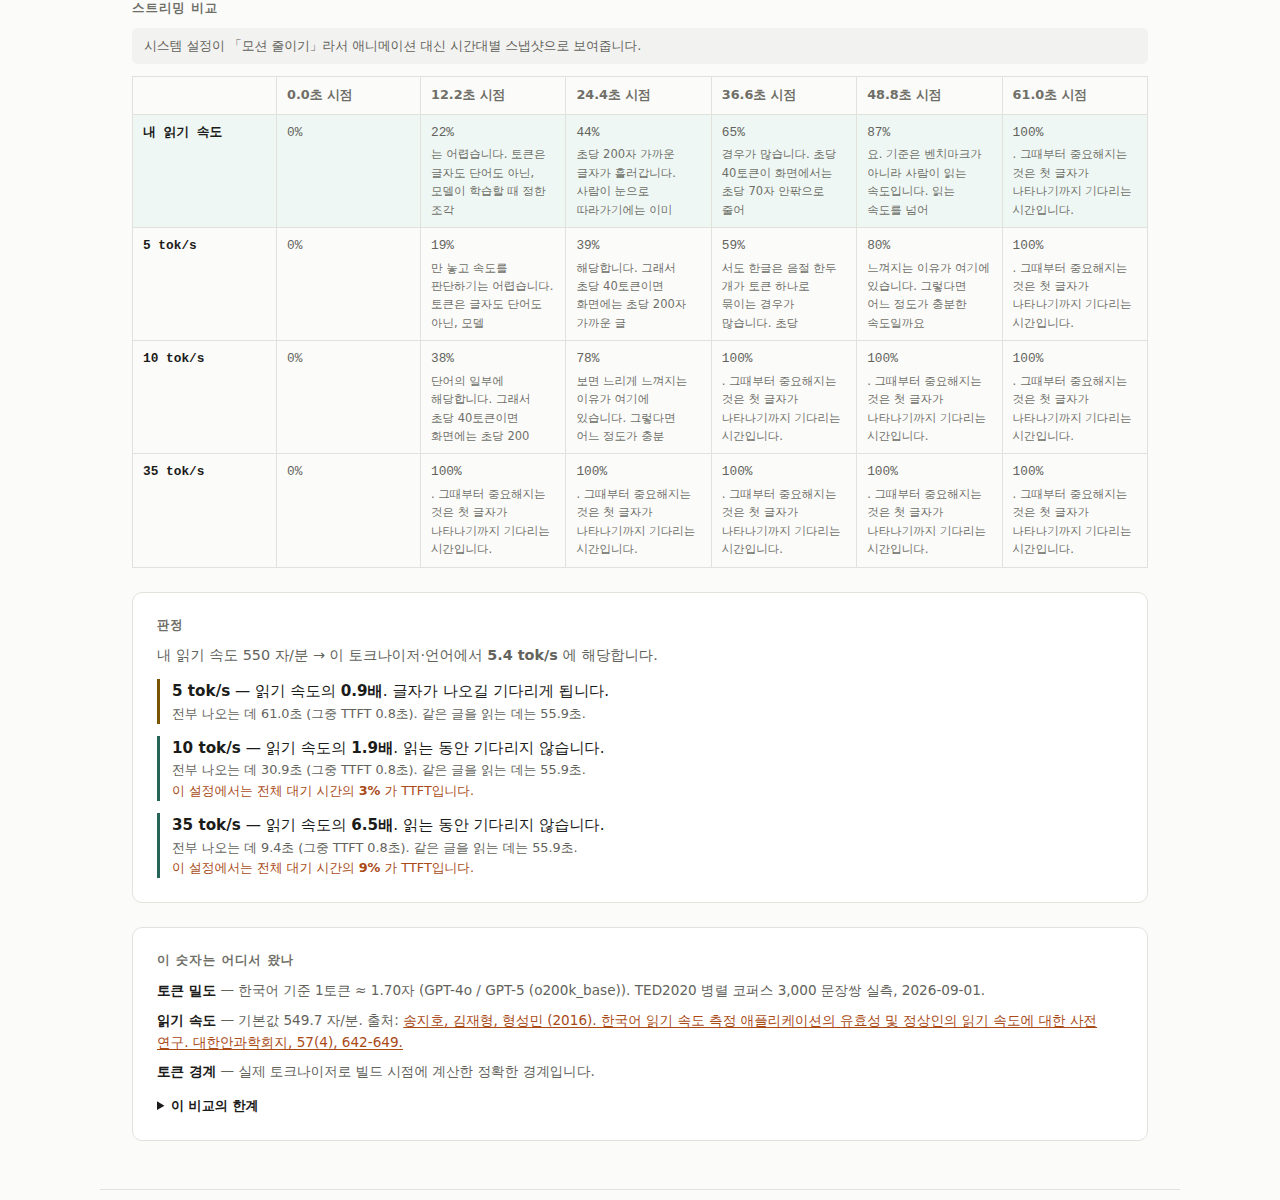
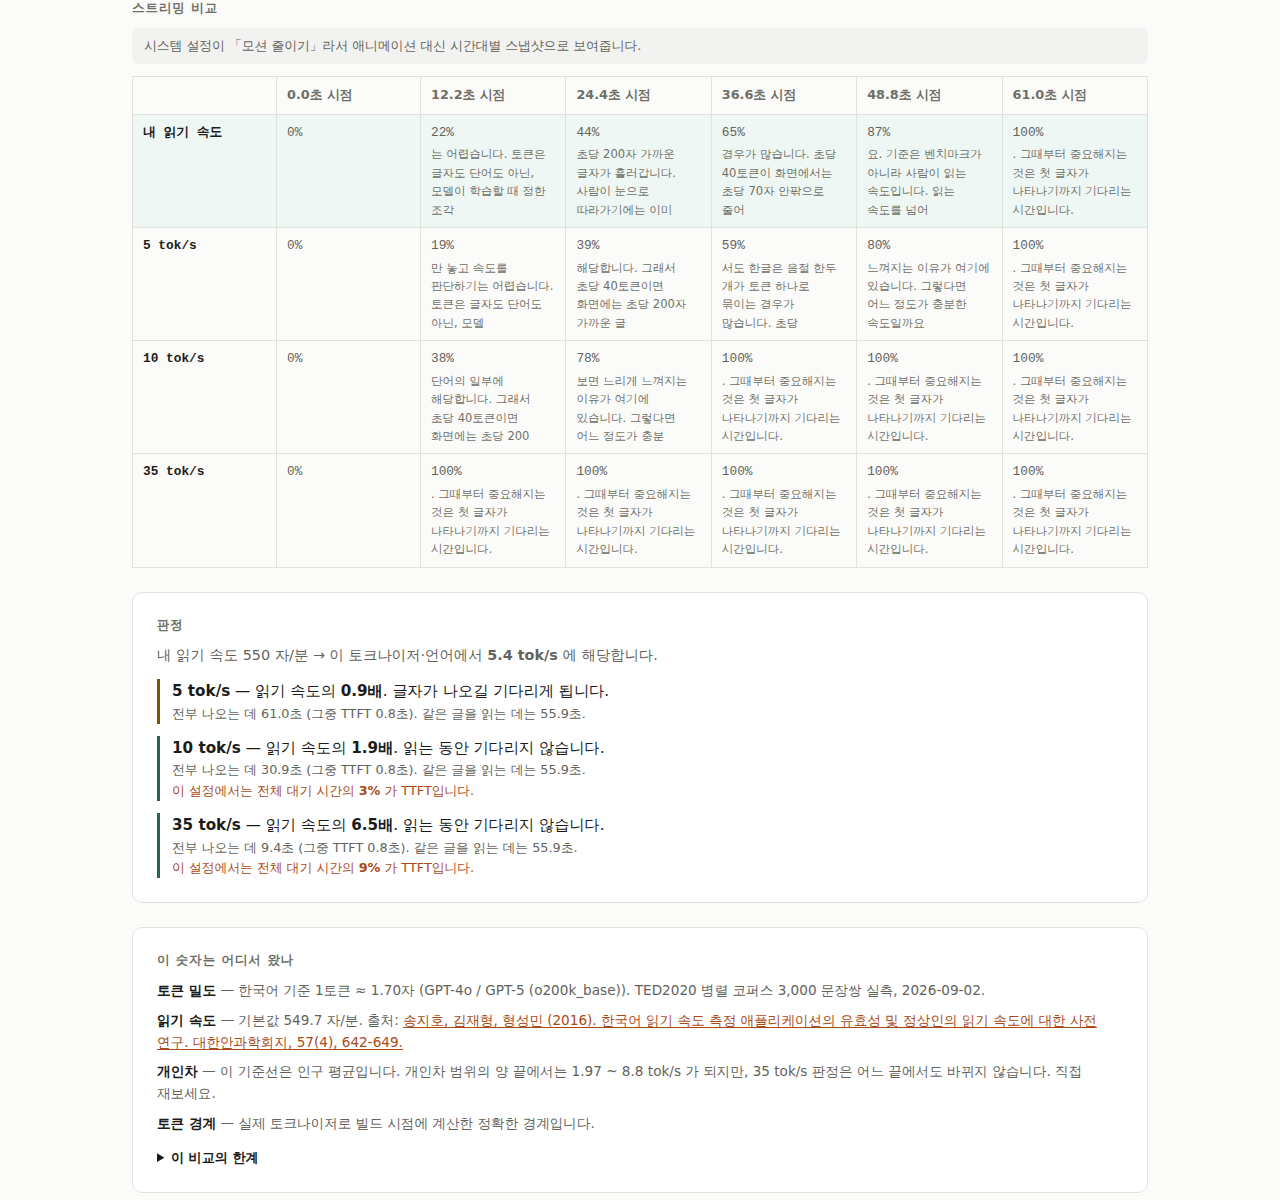
feat: 읽기 기준선의 민감도를 화면과 문서에 싣는다
이 제품의 결론 전체가 읽기 속도 기준선 하나에 걸려 있고, 한국어 출처는
n=42 에 표준편차가 평균의 63% 다. 약점을 각주로 숨기는 대신 계산해서
같이 싣는다 — 개인차 범위의 양 끝에서 결론이 어떻게 되는지가 답이다.

  English  238 words/min 범위 → 3.48 ~ 5.97 tok/s
  한국어    549.7 chars/min 범위 → 1.97 ~ 8.80 tok/s

**35 tok/s 판정은 어느 끝에서도 안 바뀐다.** 뒤집히는 건 5 tok/s 레인뿐이고
그게 그 레인이 화면에 있는 이유다. 결론이 걸린 것은 평균값이 아니라 자릿수다.

형식도 통일했다. en 은 출처가 range 를 보고하고 ko 는 sd 만 보고해서 화면
표기가 언어마다 갈릴 뻔했다. ko 에 평균±1 SD 파생 range 를 두되 그것이
출처가 보고한 값이 아니라 파생값임을 `rangeBasis` 에 적었다 — 형식을 맞추려고
출처가 말하지 않은 것을 말한 것처럼 만들면 그게 이 리포가 하면 안 되는 일이다.

화면의 「이 숫자는 어디서 왔나」에도 같은 한 줄을 넣었다. 문서에만 적으면
화면만 보는 사람에게는 없는 것과 같다.

스크린샷·OG 카드도 재생성했다 — 9/01 캡처라 푸터 문구가 어긋나 있었다.

Changed region(s): [[0.125, 0.8633, 0.875, 1.0], [0.5, 0.8633, 0.5312, 0.8942]]

diff --git a/assets/js/i18n.js b/assets/js/i18n.js
@@ -60,6 +60,9 @@ export const STRINGS = {
       `<strong>토큰 밀도</strong> — ${lang} 기준 1토큰 ≈ ${cpt}자 (${tok}). TED2020 병렬 코퍼스 3,000 문장쌍 실측, ${date}.`,
     evidenceReading: (rate, unit, source) =>
       `<strong>읽기 속도</strong> — 기본값 ${rate} ${unit}. 출처: ${source}`,
+    evidenceSpread: (lo, hi) =>
+      `<strong>개인차</strong> — 이 기준선은 인구 평균입니다. 개인차 범위의 양 끝에서는 ` +
+      `${lo} ~ ${hi} tok/s 가 되지만, 35 tok/s 판정은 어느 끝에서도 바뀌지 않습니다. 직접 재보세요.`,
     evidenceFidelity: {
       precomputed: '<strong>토큰 경계</strong> — 실제 토크나이저로 빌드 시점에 계산한 정확한 경계입니다.',
       exact: '<strong>토큰 경계</strong> — 브라우저에서 실제 토크나이저로 계산했습니다.',
@@ -145,6 +148,10 @@ export const STRINGS = {
       `<strong>Token density</strong> — one token ≈ ${cpt} characters in ${lang} (${tok}). Measured on 3,000 TED2020 sentence pairs, ${date}.`,
     evidenceReading: (rate, unit, source) =>
       `<strong>Reading speed</strong> — default ${rate} ${unit}. Source: ${source}`,
+    evidenceSpread: (lo, hi) =>
+      `<strong>Individual variation</strong> — this baseline is a population mean. At the ends ` +
+      `of the spread it becomes ${lo}–${hi} tok/s, and the verdict at 35 tok/s holds at either ` +
+      `end. Measure your own.`,
     evidenceFidelity: {
       precomputed: '<strong>Token boundaries</strong> — exact, computed by the real tokenizer at build time.',
       exact: '<strong>Token boundaries</strong> — exact, computed in your browser.',

diff --git a/assets/data/density.js b/assets/data/density.js
@@ -96,6 +96,10 @@ export const READING_PACE = {
       "gemma-3": 4.93,
       "mistral-small": 4.72
     },
+    "readerSpread": [
+      1.97,
+      8.8
+    ],
     "source": "송지호, 김재형, 형성민 (2016). 한국어 읽기 속도 측정 애플리케이션의 유효성 및 정상인의 읽기 속도에 대한 사전 연구. 대한안과학회지, 57(4), 642-649.",
     "sourceUrl": "https://www.jkos.org/upload/pdf/JKOS057-04-17.pdf"
   },
@@ -112,6 +116,10 @@ export const READING_PACE = {
       "gemma-3": 4.93,
       "mistral-small": 4.91
     },
+    "readerSpread": [
+      3.48,
+      5.97
+    ],
     "source": "Brysbaert, M. (2019). How many words do we read per minute? A review and meta-analysis of reading rate. Journal of Memory and Language, 109, 104047.",
     "sourceUrl": "https://doi.org/10.1016/j.jml.2019.104047"
   }

diff --git a/assets/js/main.js b/assets/js/main.js
@@ -500,6 +500,14 @@ function renderEvidence() {
     const unit = p.unit === 'word' ? s.unitWordsPerMin : s.unitCharsPerMin;
     reading.innerHTML = s.evidenceReading(p.rate, unit, `<a href="${p.sourceUrl}">${p.source}</a>`);
     nodes.push(reading);
+
+    // The mean is the weakest part of the claim, so the page says so itself
+    // rather than leaving it to docs/reading-speed.md.
+    if (p.readerSpread) {
+      const spread = el('p', 'evidence-line');
+      spread.innerHTML = s.evidenceSpread(p.readerSpread[0], p.readerSpread[1]);
+      nodes.push(spread);
+    }
   }
 
   const fidelity = el('p', `evidence-line fidelity fidelity--${state.fidelity}`);

diff --git a/docs/reading-speed.md b/docs/reading-speed.md
@@ -35,6 +35,18 @@ tok/s 는 모델 쪽 단위고 읽기 속도는 사람 쪽 단위다. 둘을 한
 ⇒ 디코딩 속도를 더 올려도 「읽는 동안 기다리지 않는다」는 이미 오래전에 달성됐다.
 남은 체감 변수는 **첫 토큰까지의 대기(TTFT)** 와 **응답의 길이**지 tok/s 가 아니다.
 
+### 평균이 아닌 독자라면 (민감도)
+
+이 결론이 평균값 하나에 얼마나 매달려 있는지가 중요하다. 개인차 범위의 양 끝에서 다시 재면
+(o200k_base 기준):
+
+- **English** 238 words/min 의 개인차 범위 → **3.48 ~ 5.97 tok/s**
+- **한국어** 549.7 chars/min 의 개인차 범위 → **1.97 ~ 8.8 tok/s**
+
+⇒ **35 tok/s 판정은 어느 끝에서도 안 바뀐다.** 뒤집히는 것은 5 tok/s 레인뿐이고,
+그것이 그 레인이 화면에 있는 이유다. 결론이 걸려 있는 것은 평균값이 아니라 자릿수다 —
+그래서 개인 측정 기능이 인구 평균보다 위에 있다.
+
 ⚠ 단, 이것은 **읽는 속도**지 **훑는 속도**가 아니다. 코드·표·긴 목록처럼 눈으로 건너뛰며
 읽는 출력에서는 사람의 유효 처리 속도가 훨씬 높아지고, 그때는 tok/s 가 다시 체감에 들어온다.
 
